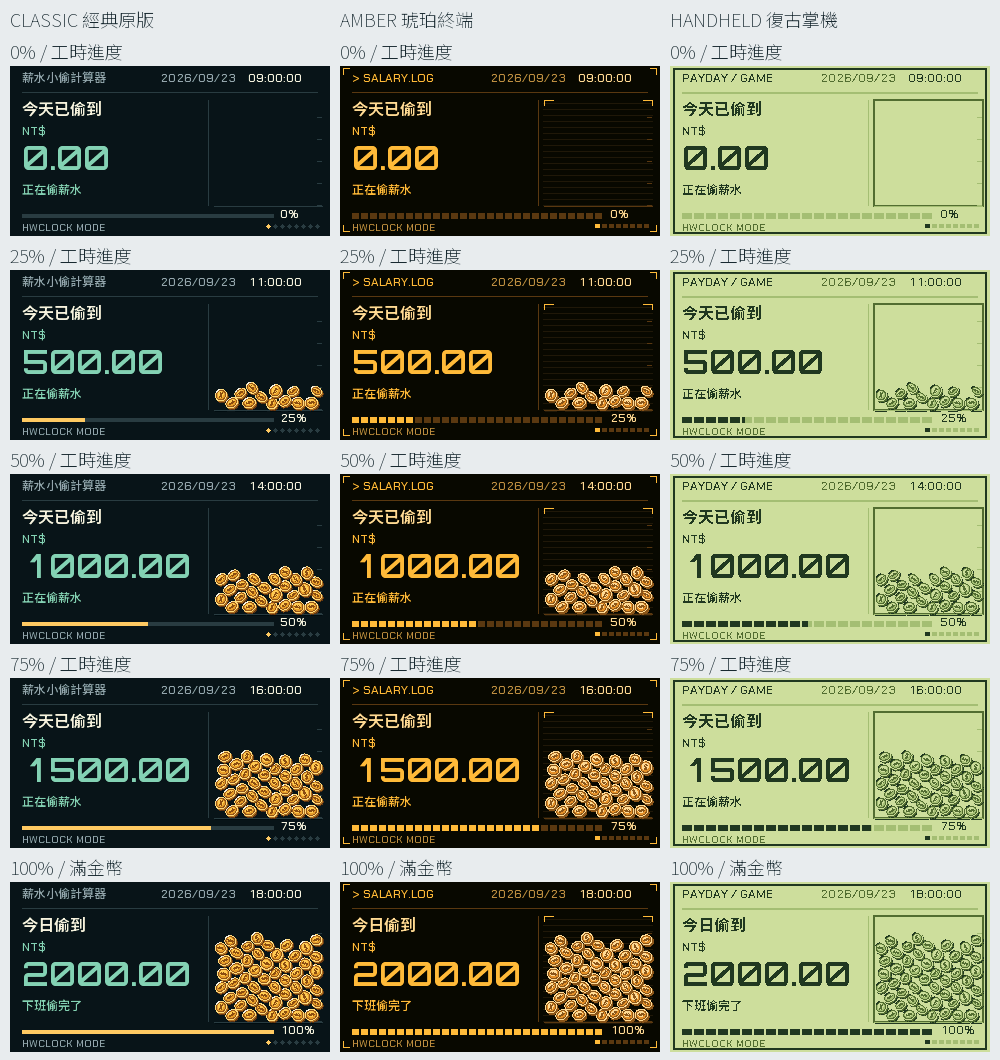
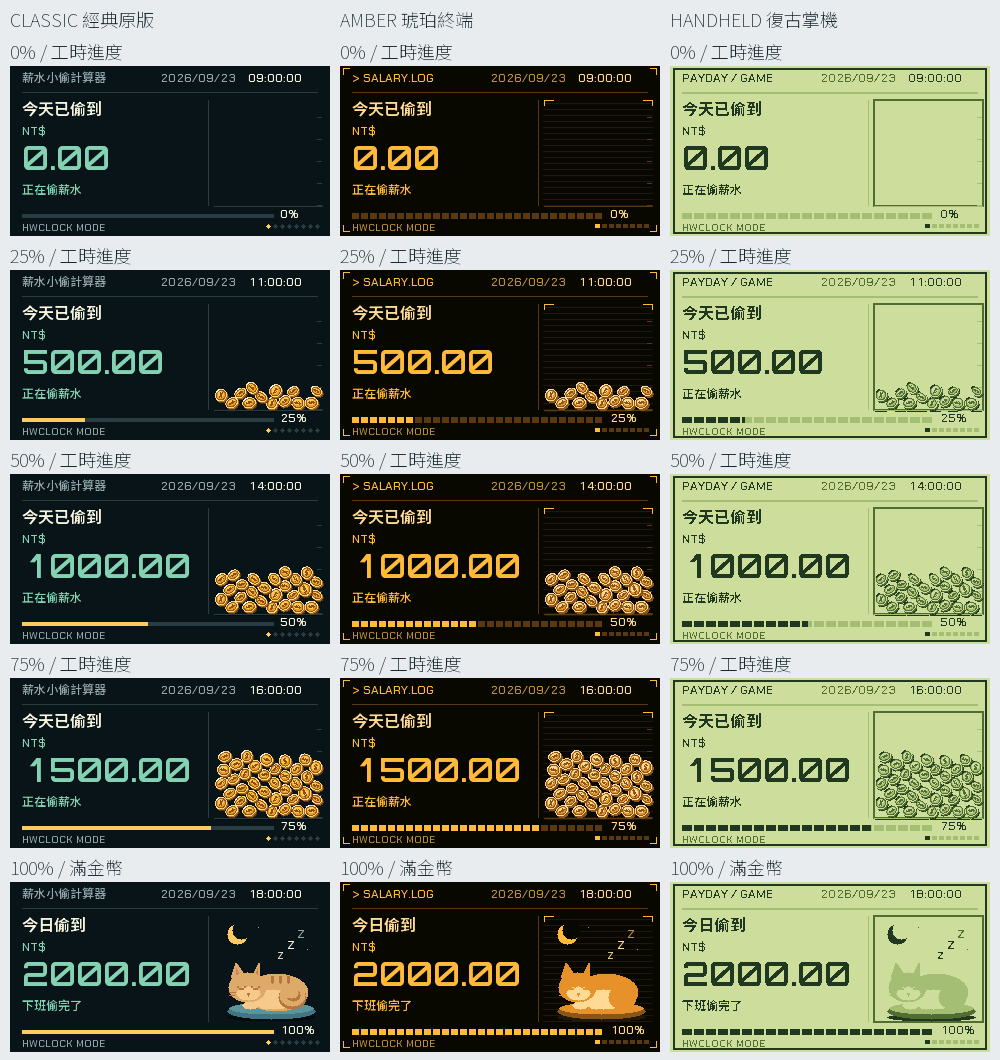
Release v1.4.9: restore animated sleeping cat after work

Changed region(s): [[0.868, 0.8717, 0.992, 0.9651], [0.527, 0.8717, 0.651, 0.9651], [0.217, 0.8717, 0.341, 0.9651]]

diff --git a/components/display/ui_renderer.cpp b/components/display/ui_renderer.cpp
@@ -314,6 +314,44 @@ void holiday_scene(Canvas &c,uint32_t milliseconds) {
         c.rect(235-i/2,120+i,2,1,MUTED);c.rect(254+i/2,120+i,2,1,MUTED);
     }
 }
+void rest_scene(Canvas &c,uint32_t milliseconds) {
+    const float phase=float(milliseconds%4000)/4000.f;
+    const float breath=.5f-.5f*std::cos(phase*6.2831853f);
+    const auto fur=rgb(222,169,106), highlight=rgb(245,200,139), stripe=rgb(177,118,66);
+    const auto cushion=rgb(69,116,132), cushion_light=rgb(95,149,158);
+    // Crescent moon, cushion and a sleeping cat with a slow breathing motion.
+    c.ellipse(227,52,10,10,GOLD);c.ellipse(231,48,9,9,BG);
+    c.pixel(248,45,MUTED);c.pixel(297,67,MUTED);
+    c.ellipse(261,135,44,4,rgb(7,13,17));
+    c.ellipse(261,129,44,8,cushion);c.ellipse(261,126,42,6,cushion_light);
+    c.ellipse(266,111-breath,32,18+breath,fur);
+    c.ellipse(263,117,23,10,highlight);
+    for (int x=262;x<=278;x+=8) c.ellipse(float(x),98-breath,2,4,stripe);
+    c.ellipse(282,115,14,12,stripe);c.ellipse(282,113,13,11,fur);
+    c.ellipse(283,113,7,6,stripe);c.ellipse(281,111,7,5,fur);
+    const int head_y=106-int(std::lround(breath));
+    for (int row=0;row<15;++row) {
+        c.rect(225-row/3,head_y-24+row,2+row,1,fur);
+        c.rect(248-row/2,head_y-24+row,2+row/2,1,fur);
+    }
+    for (int row=0;row<8;++row) {
+        c.rect(226,head_y-19+row,1+row/2,1,rgb(201,130,103));
+        c.rect(247-row/3,head_y-19+row,1+row/3,1,rgb(201,130,103));
+    }
+    c.ellipse(237,float(head_y),19,15,fur);
+    c.ellipse(238,float(head_y+6),12,7,highlight);
+    for (int x:{227,241}) {
+        c.rect(x,head_y-1,2,2,stripe);c.rect(x+2,head_y+1,5,2,stripe);
+        c.rect(x+7,head_y-1,2,2,stripe);
+    }
+    c.rect(237,head_y+6,3,2,stripe);c.rect(238,head_y+8,1,2,stripe);
+    c.rect(219,head_y+5,7,1,stripe);c.rect(219,head_y+8,6,1,stripe);
+    c.ellipse(240,123,8,4,highlight);c.ellipse(256,124,7,3,highlight);
+    for (int i=0;i<3;++i) {
+        const float drift=std::fmod(phase+float(i)/3.f,1.f);
+        c.text(259+int(drift*31),78-int(drift*35),"Z",drift<.5f?10:12,drift>.8f?MUTED:INK);
+    }
+}
 void header(Canvas &c,const UiModel &m) {
     if (m.page==4 && m.synced && m.system!=SYSTEM_SETUP_MODE && m.system!=SYSTEM_ERROR) {
         c.text(16,7,"現在時刻",12,INK); c.text(231,7,"LIVE CLOCK",10,MUTED);
@@ -608,6 +646,7 @@ void ui_render(uint16_t *pixels,int offset,int rows,const UiModel &m) {
             scene_frame(c,m);
             if (m.salary.work_state==WORK_STATE_DAY_OFF) holiday_scene(c,m.animation_ms);
             else if (m.salary.work_state==WORK_STATE_LUNCH) lunch_scene(c,m.animation_ms);
+            else if (m.salary.work_state==WORK_STATE_AFTER_WORK) rest_scene(c,m.animation_ms);
             else {
                 // Small scale marks keep the pile within a quiet instrument-like area.
                 for (int y=51;y<140;y+=22) c.rect(307,y,5,1,LINE);

diff --git a/tests/test_core.cpp b/tests/test_core.cpp
@@ -576,11 +576,12 @@ static void render_tests(const char *directory) {
         std::snprintf(m.clock,sizeof(m.clock),"%02d:%02d:%02d",seconds/3600,seconds/60%60,seconds%60);
         ui_render(full.data(),0,170,m);ppm(std::string(directory)+"/coin_"+std::to_string(i)+".ppm",full);
     }
-    m.salary=at(m.config,18,0);std::strcpy(m.clock,"18:00:00");pile();m.physics=&p;
+    m.salary=at(m.config,17,59,59);std::strcpy(m.clock,"17:59:59");pile();m.physics=&p;
     ui_render(full.data(),0,170,m);ppm(std::string(directory)+"/stack_settled.ppm",full);
     // Exercise every animation frame through both framebuffer paths, with the
     // salary and clock held still to verify motion uses its own frame timestamp.
-    for (int scene=0;scene<3;++scene) {
+    for (int theme=0;theme<3;++theme) for (int scene=0;scene<3;++scene) {
+        m.theme=static_cast<DisplayTheme>(theme);
         m.salary=at(m.config,scene==1?18:12,0,0,scene==2?25:23);
         std::strcpy(m.clock,scene==1?"18:00:00":"12:00:00");
         std::strcpy(m.date,scene==2?"2026/09/25":"2026/09/23");
@@ -601,11 +602,11 @@ static void render_tests(const char *directory) {
             for (int y=0;y<170;++y) for (int x=0;x<320;++x)
                 if (x<200 || x>=318 || y<29 || y>=145) outside_unchanged&=full[y*320+x]==first[y*320+x];
             CHECK(outside_unchanged);
-            ppm(std::string(directory)+(scene==2?"/holiday_":scene==1?"/rest_":"/lunch_")+std::to_string(frame)+".ppm",full);
+            if (theme==0) ppm(std::string(directory)+(scene==2?"/holiday_":scene==1?"/rest_":"/lunch_")+std::to_string(frame)+".ppm",full);
         }
-        CHECK(scene==1 ? !moved : moved); // After work keeps the completed pile.
+        CHECK(moved); // Lunch, sleeping cat and holiday scenes all keep animating.
         m.physics=nullptr;ui_render(strip.data(),0,170,m);
-        CHECK(scene==1 ? full!=strip : full==strip);m.physics=&p;
+        CHECK(full==strip);m.physics=&p;
     }
     // Check popup motion, its bounds, theme palette and both rendering paths.
     m.salary=at(m.config,14,37,21);std::strcpy(m.clock,"14:37:21");m.physics=nullptr;

diff --git a/components/display/ui_animation.cpp b/components/display/ui_animation.cpp
@@ -60,5 +60,5 @@ void UiAnimation::update(const SalaryStatus &s,int64_t now,float dt) {
     }
     last_earned_=s.earned_money;
     physics_.update(dt);
-    // Lunch pauses the count; the complete pile remains visible after work.
+    // Lunch pauses the count; after work the renderer shows the sleeping cat.
 }

diff --git a/README.md b/README.md
@@ -14,9 +14,9 @@
 
 ![工作中的金幣堆疊動畫](docs/coin_physics.gif)
 
-[開機動畫](docs/boot.gif) · [金幣堆疊近照](docs/stack_settled.png) · [午休動畫](docs/lunch.gif) · [下班滿金幣](docs/rest.gif) · [休假動畫](docs/holiday.gif)
+[開機動畫](docs/boot.gif) · [金幣堆疊近照](docs/stack_settled.png) · [午休動畫](docs/lunch.gif) · [下班貓咪動畫](docs/rest.gif) · [休假動畫](docs/holiday.gif)
 
-金幣直徑約 12–14 像素，保留傾斜幣面、厚邊與光影；從隨機位置落下、碰撞回彈，自然堆積，一天共 **52 枚**。每枚代表「當日有效工時 ÷ 52」，午休不增加；8 小時工時約每 9 分 14 秒新增一枚，最後一枚在下班時出現，下班後保留滿金幣。重開機會依當天已完成工時還原，不從零開始，也不因月薪較高而提早裝滿。上方動畫示範 14:00 達到一半工時時新增第 26 枚。
+金幣直徑約 12–14 像素，保留傾斜幣面、厚邊與光影；從隨機位置落下、碰撞回彈，自然堆積，一天共 **52 枚**。每枚代表「當日有效工時 ÷ 52」，午休不增加；8 小時工時約每 9 分 14 秒新增一枚，工時完成時累積到 52 枚，下班後顯示睡覺貓咪動畫。重開機會依當天已完成工時還原，不從零開始，也不因月薪較高而提早裝滿。上方動畫示範 14:00 達到一半工時時新增第 26 枚。
 
 ![三種主題在零、四分之一、一半、四分之三及下班時的金幣累積](docs/coin_progress.png)
 

diff --git a/docs/development.md b/docs/development.md
@@ -90,7 +90,7 @@ python tools/package_page_previews.py --font /path/to/NotoSansTC.ttf --docs
 | `themes.png` | `all_pages_comparison.png`：全部八頁的三主題對照 |
 | `boot.gif` | `boot_0.gif`：經典原版開機動畫，版本由 `version.txt` 傳入測試建置 |
 | `coin_physics.gif`、`stack_settled.png` | 工作時金幣動畫與堆疊近照 |
-| `lunch.gif`、`rest.gif`、`holiday.gif` | 午休動畫、下班滿金幣靜態畫面及休假動畫 |
+| `lunch.gif`、`rest.gif`、`holiday.gif` | 午休動畫、下班睡覺貓咪動畫及休假動畫 |
 | `coin_progress.png` | 0%、25%、50%、75%、100% 工時的三主題對照，由真實薪資快照產生 |
 
 手冊插圖包含設定與校時等待、紀念日、亮度調整／儲存、更新提示／下載進度、電池／外部供電、收入、費率、到職累積、休假倒數及三主題對照。`render_pages` 另外產生八個 `manual_*.ppm` 情境與 15 個 `progress_*.ppm` 工時情境，並檢查所有輸出的整幀／strip 一致性。金幣 GIF 使用正常時間，示範 14:00 新增第 26 枚，不使用加速掉幣。更新提示中的 v1.4.9 是固定模擬版本，不代表已發布；手冊圖說也必須保留此說明。

diff --git a/docs/architecture.md b/docs/architecture.md
@@ -82,7 +82,7 @@ flowchart TD
 
 ## 薪資與日期
 
-`UiAnimation` 以 `floor(worked_seconds × 52 / daily_work_seconds)` 決定今日金幣數（上限 52），不再以收入整數增加觸發循環掉幣。尚未上班、休假、無有效時間或缺日曆時為零；午休維持當前進度，最後一枚在完成當日工時時才出現，下班頁保留滿金幣。
+`UiAnimation` 以 `floor(worked_seconds × 52 / daily_work_seconds)` 決定今日金幣數（上限 52），不再以收入整數增加觸發循環掉幣。尚未上班、休假、無有效時間或缺日曆時為零；午休維持當前進度，完成當日工時時累積到 52 枚，下班頁改為睡覺貓咪動畫。
 
 金幣直徑隨機為 12–14 px，幣面保留不同傾角、厚邊與光影。`CoinPhysicsEngine::set_count()` 在一般單枚增量時保留全部舊金幣，只新增隨機落點、速度與旋轉的金幣，由碰撞求解自然堆積；接近滿堆時偏向較低的落點，避免金幣堆到畫面外。靜止且受支撐的堆疊在首次承受向下撞擊時採較大的有效質量，使新幣回彈清楚，側向撞擊仍能推動鄰幣。
 

diff --git a/docs/releases/v1.4.9.md b/docs/releases/v1.4.9.md
@@ -1,0 +1,8 @@
+# v1.4.9 — 恢復下班貓咪動畫
+
+- 恢復「今日偷薪」頁下班後的睡覺貓咪、呼吸起伏與飄動 Z 動畫，取代靜止的滿金幣畫面。下班後才開機或切回該頁，也會持續播放。
+- 保留工作期間依有效工時累積金幣、午休漢堡與假日場景，以及原有下班瞬間的文字提示。
+- 回歸測試確認三種主題的動畫確實逐幀變動，整幀／strip 渲染一致，且不影響場景外的薪資文字。
+- 更新使用說明與預覽素材。
+
+提供 PSRAM／無 PSRAM 兩種韌體及 SHA-256 校驗檔。驗證包含主機測試與雙組態建置；尚未燒錄實板驗證。
